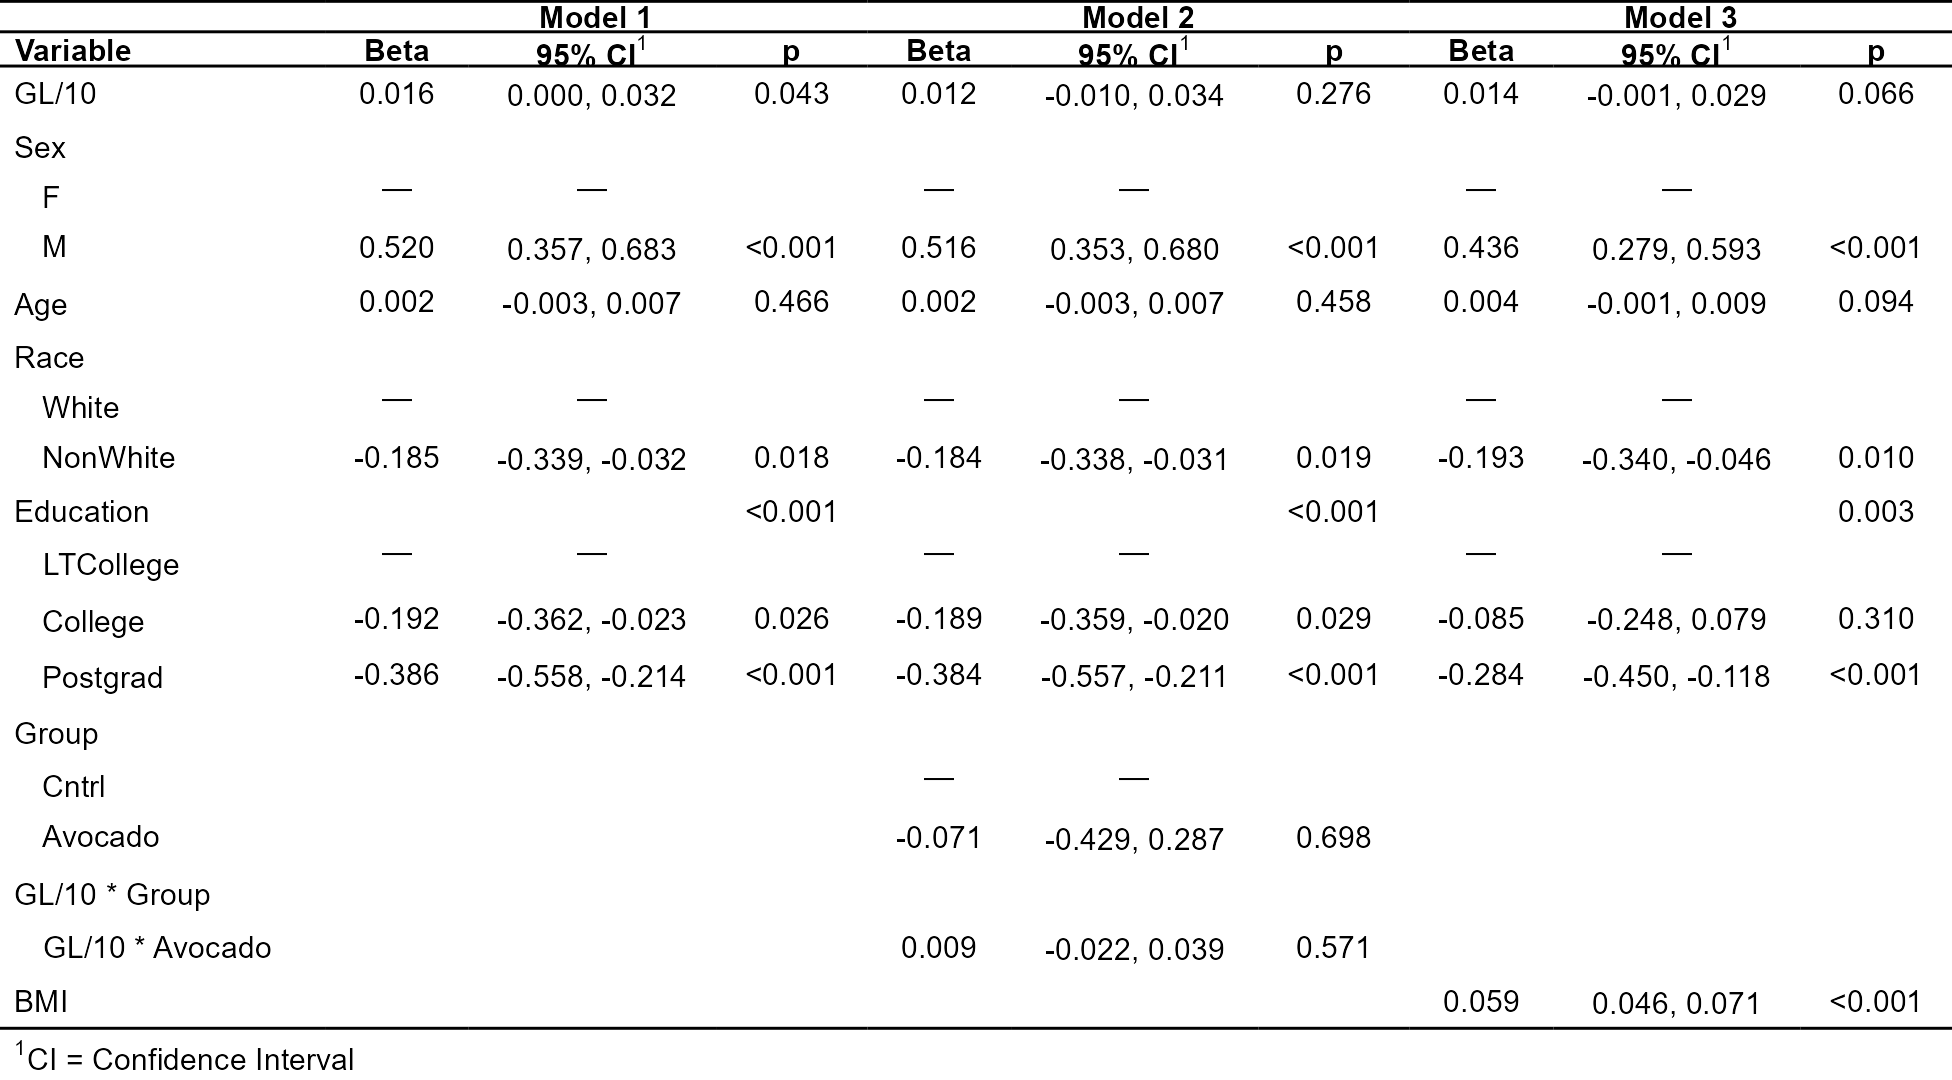
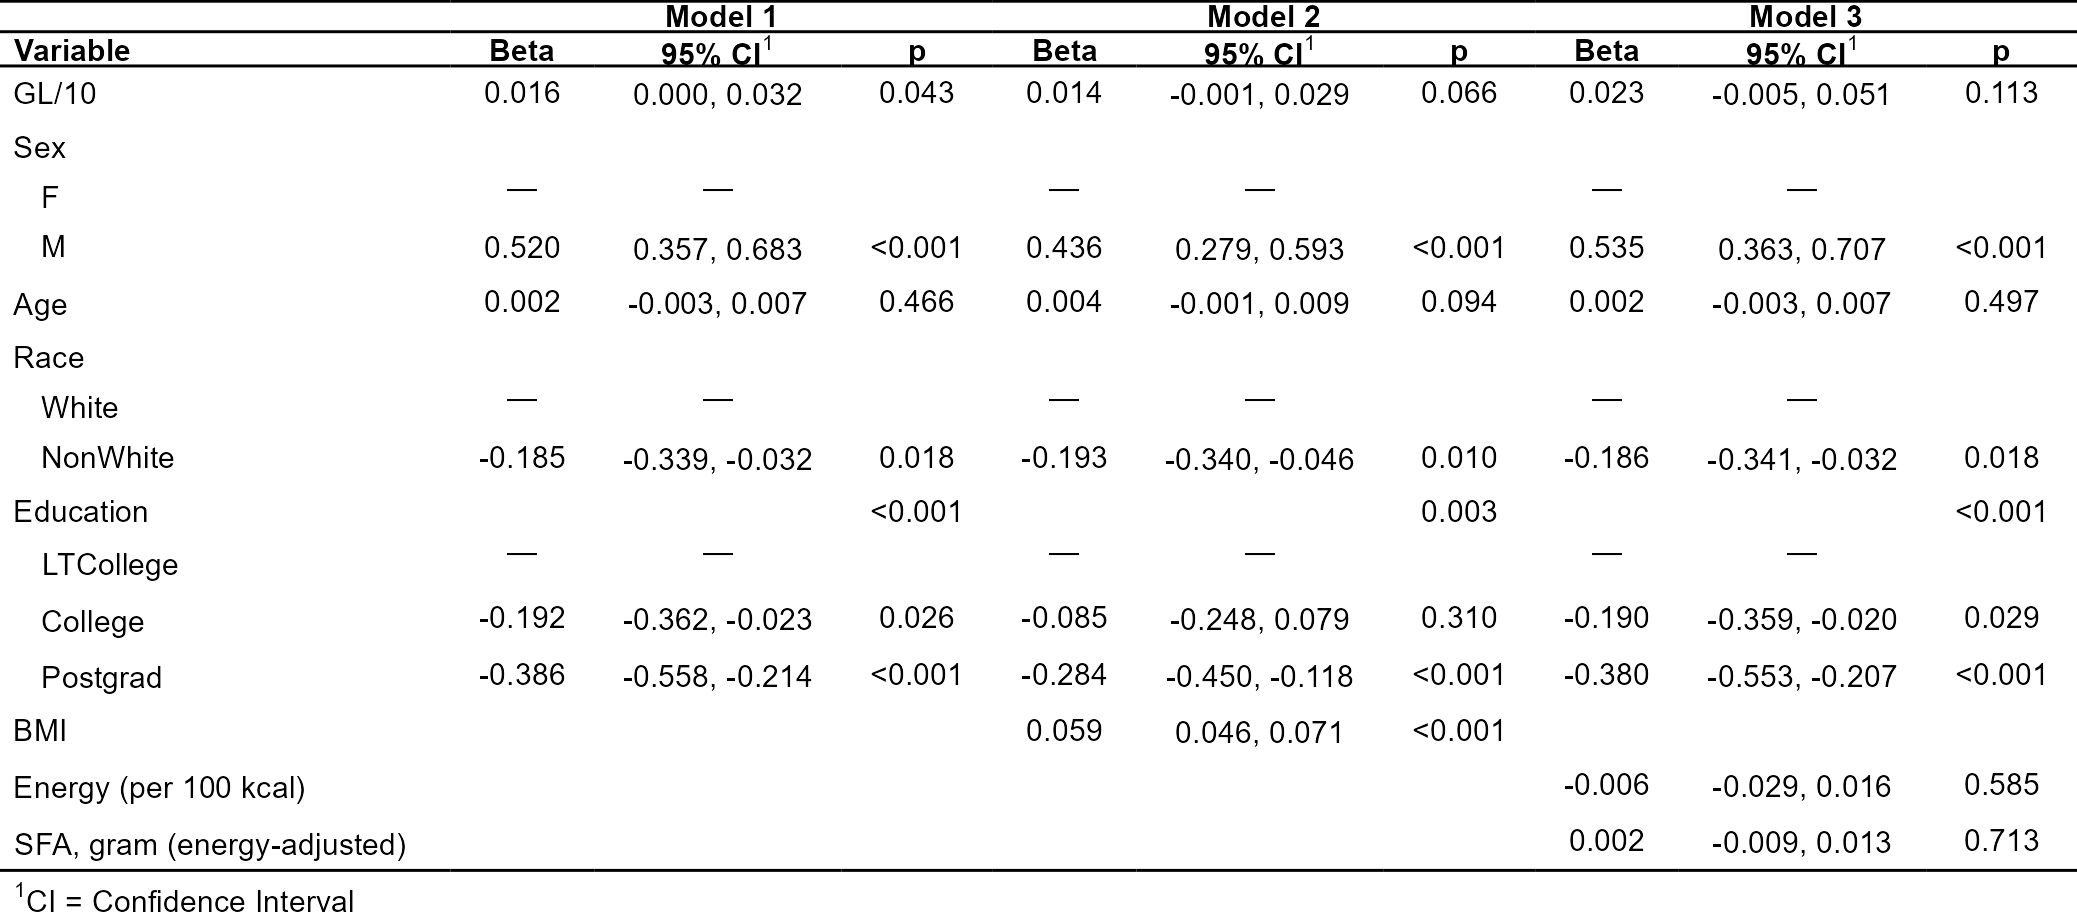
Revised models

diff --git a/summary.md b/summary.md
@@ -202,8 +202,9 @@ HAT hepatic fat study
 
 ## Regression models of HFF on GL
 
-- Regression models were run using log(HFF) as the dependent variable
-  and glycemic load (GL) as an independent variable of interest.
+- Regression models were run using log(post HFF) as the dependent
+  variable and glycemic load (GL) as an independent variable of
+  interest.
   - Because of its highly right-skewed distribution, HFF was
     log-transformed
   - GL values were divided by 10 (labelled as “GL/10” in the table
@@ -220,27 +221,25 @@ HAT hepatic fat study
   - Non-Whites had significantly lower HFF value than White
     ($exp(-0.185) = 0.83$ or 17% lower)
   - Education was negatively associated with HFF
-- Model 2 also included Group (control/avocado) and its interaction with
-  GL. This is to assess whether the relationship between GL and HFF may
-  be different between the two groups
-  - The beta coefficient for GL was attenuated and became
-    non-significant
-  - Both Group and its interaction with GL were not significant at all,
-    indicating that the relationship between HFF and GL did not differ
-    between the two groups
-- In Model 3, BMI was added to the base model
+- In Model 2, BMI was added to the base model
   - BMI was significantly positively associated with HFF. A 1-unit
     increment of BMI corresponds to an increase of HFF by 6% (i.e.,
     $exp(0.059) = 1.061$ or 6% increase)
   - The beta coefficient for GL was attenuated and became
     non-significant after adding BMI into the base model
+- In Model 3, total energy (per 100 kcal) and SFA (gram,
+  energy-adjusted) was added to the base model
+  - Both kcal and SFA were not significantly associated with HFF
+  - Glycemic load was not significantly associated with HFF, after
+    further adjusting for kcal and SFA
 
-<img src="summary_files/figure-gfm/gl_models-1.png" width="1952" />
+<img src="summary_files/figure-gfm/gl_models-1.png" width="2077" />
 
 ## Regression models of HFF on GI
 
-- Regression models were run using log(HFF) as the dependent variable
-  and glycemic index (GI) as an independent variable of interest
+- Regression models were run using log(post HFF) as the dependent
+  variable and glycemic index (GI) as an independent variable of
+  interest
   - Again, HFF was log-transformed
   - GI values were divided by 100 (labelled as “GI/10” in the table
     below). Thus, its beta estimate is interpreted as a change in
@@ -249,7 +248,7 @@ HAT hepatic fat study
   - In all models, glycemic index was not significantly associated with
     HFF
 
-<img src="summary_files/figure-gfm/gi_models-1.png" width="1960" />
+<img src="summary_files/figure-gfm/gi_models-1.png" width="2077" />
 
 ## Notes
 
